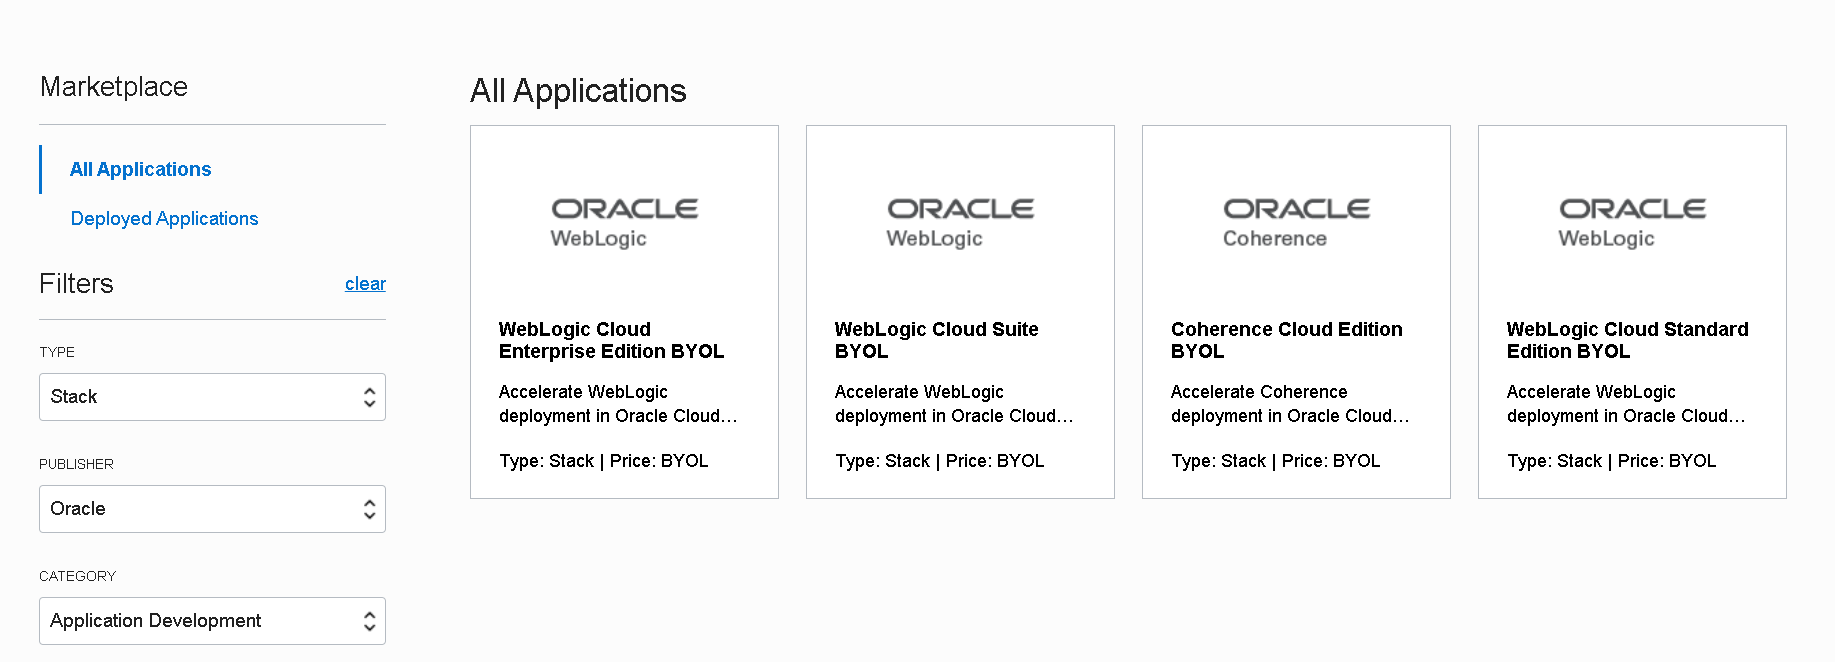
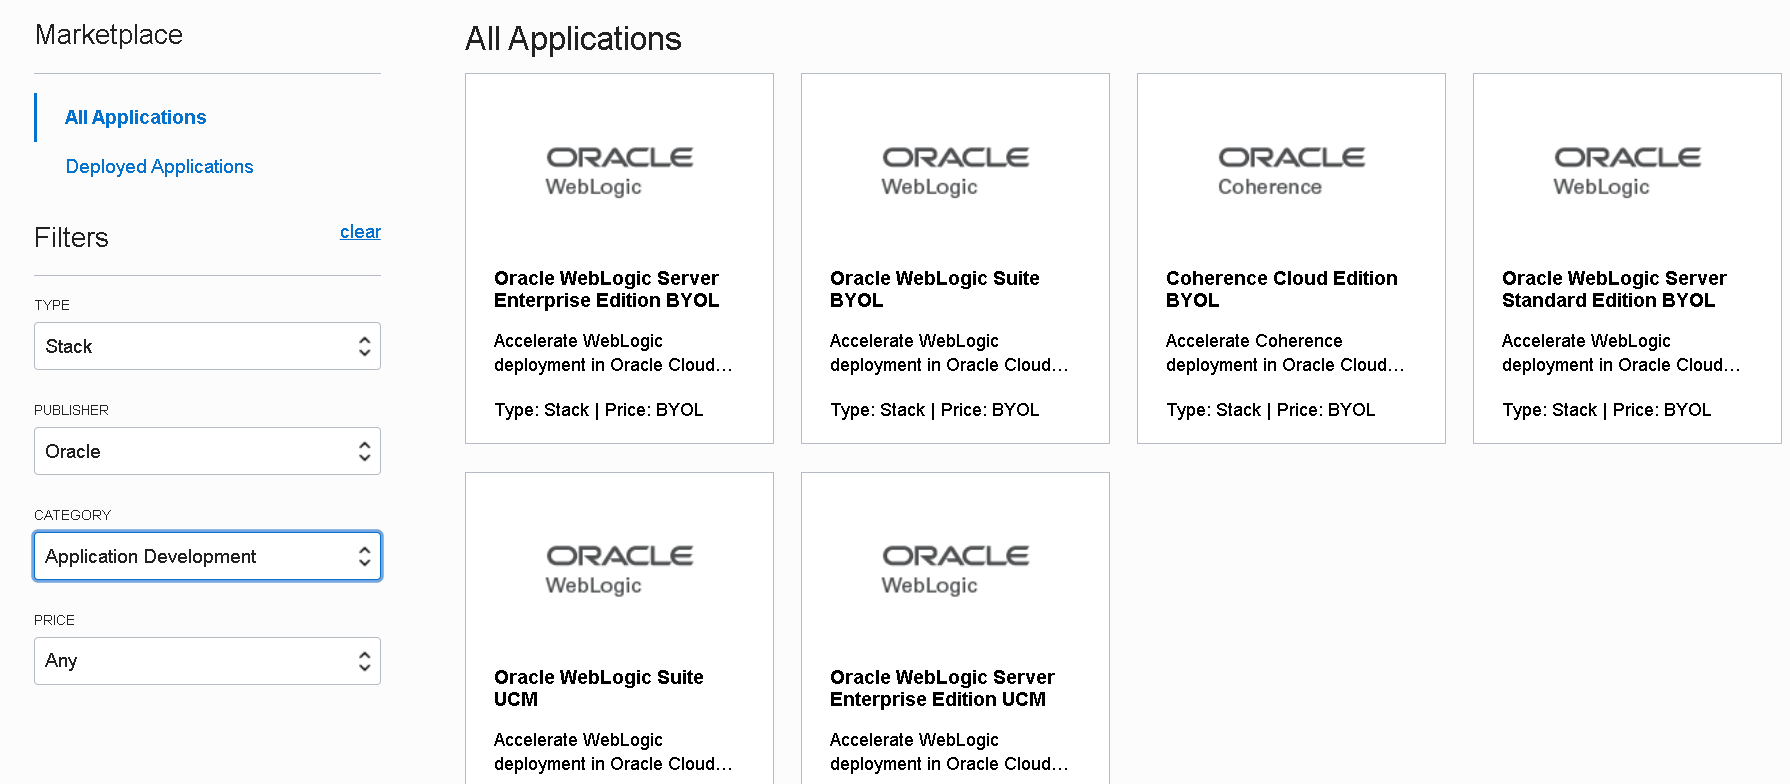
Weblogic Cloud -> Weblogic for OCI

diff --git a/wlscnonjrfprereq.md b/wlscnonjrfprereq.md
@@ -1,0 +1,268 @@
+# WebLogic Cloud - non JRF
+
+## prerequisites
+
+
+If you want go through the Hands on Lab (*non JRF type of WebLogic Cloud Instance - using Oracle Cloud Marketplace*) using your cloud environment, follow this guide to setup some prerequisites. If you will use the provided Cloud Test Drive environment, skip this Lab.
+
+
+### Step 1. Prepare OCI Compartment
+
+When provisioning WebLogic for OCI through Marketplace, you need to specify an OCI Compartment where all resources will be created.
+
+Make sure you have a Compartment that you can use or create a new one.
+
+Take note of the compartment **OCID**:
+
+![](images/wlscnonjrfwithenvprereq/image550.png)
+
+
+
+The Compartment name is referred as **CTDOKE** in the Hands on Lab.
+
+
+
+### Step 2. Encrypt WebLogic Admin password
+
+When you provision WebLogic for you need to pass the WebLogic Admin password encrypted. An OCI Key is required for this.  
+
+
+
+##### Create a Key Vault
+
+Go to *Governance and Administration* > *Security* > *Key Management*:
+
+![](images/wlscnonjrfwithenvprereq/image010.png)
+
+
+
+Create a new Shared Vault:
+
+![](images/wlscnonjrfwithenvprereq/image020.png)
+
+
+
+The new Vault should be listed as Active:
+
+![](images/wlscnonjrfwithenvprereq/image030.png)
+
+
+
+Take a look at the Vault Information and note the  **Cryptographic Endpoint**:
+
+![](images/wlscnonjrfwithenvprereq/image035.png)
+
+
+
+Create an new Key:
+
+![](images/wlscnonjrfwithenvprereq/image040.png)
+
+
+
+Give the key a Name and leave the other settings as default:
+
+![](images/wlscnonjrfwithenvprereq/image050.png)
+
+
+
+The new key should be listed as *Enabled*:
+
+![](images/wlscnonjrfwithenvprereq/image053.png)
+
+
+
+Click on the key and note the key's **OCID**:
+
+![](images/wlscnonjrfwithenvprereq/image056.png)
+
+
+
+##### Encrypt WebLogic Admin password
+
+User OCI Cloud shell:
+
+![](images/wlscnonjrfwithenvprereq/image110.png)
+
+
+
+Shell appears in the bottom of the screen:
+
+![](images/wlscnonjrfwithenvprereq/image120.png)
+
+
+
+First, we need to encode the WebLogic Admin password in base64 format:
+
+![](images/wlscnonjrfwithenvprereq/image022.png)
+
+
+
+Command:
+
+> echo -n 'WebLogic Admin password' | base64
+
+
+
+Then, we'll use the Vault Key to encrypt the base64 encoded password:
+
+![](images/wlscnonjrfwithenvprereq/image124.png)
+
+
+
+Command:
+
+> oci kms crypto encrypt --key-id Key_OCID --endpoint Vault_Cryptographic_Endpoint --plaintext Base64_Encoded_Password
+
+
+
+The *ciphertext* value from the response represents the encrypted password. Use this value instead of the provided sample from the Hand on Lab given in **weblogic_password_encrypted.txt** text file.
+
+
+
+Use your Key OCID and Vault Cryptographic Endpoint values as the **Key Management Service Key Id**
+and **Key Management Service Cryptographic Endpoint** parameters instead of sample values mentioned in the Hands on Lab.
+
+
+
+### Step 3.  Create required policy for accessing the Vault Key
+
+##### Create a Dynamic Group
+
+We need to create a Dynamic Group that will group all instances in the compartment.
+
+Go to *Governance and Administration* -> *Identity* -> *Dynamic Groups*
+
+![](images/wlscnonjrfwithenvprereq/image560.png)
+
+
+
+Create a new Dynamic Group:
+
+![](images/wlscnonjrfwithenvprereq/image570.png)
+
+
+
+Give a meaningful name and description.
+
+For the matching rule use:
+
+> ALL {instance.compartment.id = 'your compartment ocid'}
+
+
+
+##### Create Policy for Dynamic Group
+
+We need to create a policy that will allow stack scripts to access the key vault and decrypt encrypted WebLogic Admin password.
+
+
+
+Go to *Governance and Administration* -> *Identity* -> *Policies*
+
+![](images/wlscnonjrfwithenvprereq/image580.png)
+
+
+
+![](images/wlscnonjrfwithenvprereq/image585.png)
+
+Create a new Policy:
+
+![](images/wlscnonjrfwithenvprereq/image590.png)
+
+Give a name and description.
+
+For the policy statement use:
+
+> Allow dynamic-group <dynamic group name> to use keys in compartment <compartment name>
+
+Specify Dynamic Group's name created earlier and your compartment name.
+
+
+
+### Step 4. Network Configuration
+
+The Hands on Lab guide uses an existing Virtual Cloud Network and pre-configured Subnets for the WebLogic compute nodes and for the Load Balancer.
+
+ If running the lab in a different cloud environment, the easiest way is to choose for creation of required network resources during provisioning.
+
+
+
+When filling in Stack form choose to *Create New VCN* for Virtual Cloud Network Strategy. Setup a VCN name. You can leave default Network CIDR value or change it.
+
+![](images/wlscnonjrfwithenvprereq/image600.png)
+
+
+
+You can leave default options for Subnet configuration:
+
+![](images/wlscnonjrfwithenvprereq/image610.png)
+
+
+
+Also for the Load Balancer:
+
+![](images/wlscnonjrfwithenvprereq/image620.png)
+
+
+
+###  Step 5. Create ssh keys
+
+You need to generate a public and private ssh key pair. During provisioning using Marketplace, you have to specify the ssh public key that will be associated with each of the WebLogic VM nodes.
+
+You can choose one of the options below:
+
+###### Using ssh-keygen
+
+> ssh-keygen -t rsa -b 4096
+
+You'll be asked to specify the filename to save the private key. The public key will be saved at the same location, with the extension .pub added to the private key filename.
+
+
+
+###### Using PuTTYgen
+
+Launch the PuTTYgen tool and use the *Generate* button to generate a new private/public key pair.
+
+![](images/wlscnonjrfwithenvprereq/image500.png)
+
+
+
+After key generation, don't forget to save the public and private key. If not using Putty as ssh client, you'll need to save the key in OpenSSH format (*Conversions* -> *Export OpenSSL key*).
+
+![](images/wlscnonjrfwithenvprereq/image510.png)
+
+
+
+The public key filename is referred as **wls_ssh_public.key** in the Hands on Lab.
+
+
+
+### Step 6. Load balancer SSL configuration
+
+For security reasons it's a good practice - if not mandatory - to allow only secured traffic between clients and WebLogic Server applications. Therefore, after provisioning WebLogic for OCI by choosing to setup a Load Balancer, it's necessary to manually finish SSL configuration by adding a SSL certificate to the load balancer's listener.
+
+
+
+##### Create Self Signed certificate
+
+We can use Openssl tool to generate a Self Signed certificate:
+
+> openssl req -x509 -newkey rsa:4096 -keyout weblogiccloud_key.pem -out weblogiccloud_cert.pem -days 365
+
+The openssl dialog will request setting up a PEM pass phrase and several fields for certificate information.
+
+You can choose any PEM pass phrase, the one used by the Hands on Lab is referred from the **weblogiccloud_key_passphrase.txt** text file.
+
+
+
+Then, we need to decrypt the private key:
+
+> openssl rsa -in weblogiccloud_key.pem -out weblogiccloud_dec_key.pem
+
+
+
+Note that above examples use the same names for the certificate and private key as in the Hands on Lab: **weblogiccloud_cert.pem** and **weblogiccloud_dec_key.pem**.
+
+
+
+You should be able now to run the Hands on Lab on your own cloud environment.

diff --git a/wlscnonjrf.md b/wlscnonjrf.md
@@ -1,14 +1,14 @@
-# WebLogic Cloud - non JRF
+# WebLogic for OCI - non JRF
 
 ## with provided cloud environment
 
 
 
-This Hands on Lab will go through the process of creating a non JRF type of WebLogic Cloud Instance - using Oracle Cloud Marketplace - and through the steps of deploying a simple application. A provided and partially preconfigured (lab) cloud environment will be used.
+This Hands on Lab will go through the process of creating a non JRF type of WebLogic for OCI Instance - using Oracle Cloud Marketplace - and through the steps of deploying a simple application. A provided and partially preconfigured (lab) cloud environment will be used.
 
 
 
-### Step 1. Create WLS Cloud Stack
+### Step 1. Create WebLogic for OCI Stack
 
 - Go to https://console.eu-frankfurt-1.oraclecloud.com/ and login to the lab cloud environment
 - Choose **oractdemeabdmnative** as Cloud Tenant:
@@ -35,7 +35,7 @@ This Hands on Lab will go through the process of creating a non JRF type of WebL
 
 
 
-- You can choose to browser-search for *WebLogic Cloud*, or you can apply the filters:
+- You can choose to browser-search for *WebLogic Server*, or you can apply the filters:
   - **Type**: *Stack*
   - **Publisher**: *Oracle*
   - **Category**: *Application Development*
@@ -44,21 +44,15 @@ This Hands on Lab will go through the process of creating a non JRF type of WebL
 
 
 
-- Choose *WebLogic Cloud Enterprise Edition BYOL*; This brings you to the Stack Overview page:
+- Choose *WebLogic Server Enterprise Edition UCM*; This brings you to the Stack Overview page:
 
 ![](images/wlscnonjrfwithenv/image060.png)
 
 
 
-- Choose *CTDOKE* compartment:
+- Make sure *CTDOKE* compartment is selected and to accept *Oracle Terms of Use*:
 
 ![](images/wlscnonjrfwithenv/image070.png)
-
-
-
-- And accept the terms for Launching the Stack:
-
-![](images/wlscnonjrfwithenv/image080.png)
 
 
 
@@ -87,7 +81,7 @@ This Hands on Lab will go through the process of creating a non JRF type of WebL
   - **WebLogic Server Availability Domain**: choose one of the three ADs
   - **WebLogic Server Node count**: *2* (we will create a WebLogic cluster with two nodes / managed servers)
   - **Admin user name**: *weblogic*
-  - **Admin password**: enter the provided *encrypted* weblogic password;  see provided *weblogic_password_encrypted.txt* file; for getting this, a Virtual Vault key was used for encrypting the plain text password;
+  - **Admin password**: enter the *encrypted* WebLogic Admin password;  see provided *weblogic_password_encrypted.txt* file; for obtaining this, a Virtual Vault Key was used for encrypting the base64 encoded password;
 
 
 ![](images/wlscnonjrfwithenv/image110.png)
@@ -116,7 +110,7 @@ This Hands on Lab will go through the process of creating a non JRF type of WebL
   - **Existing Subnet for WebLogic Server**: *WLSCB2-wls-subnet*
   - Tick to **Provision Load Balancer**
   - **Existing Subnet For Load Balancer**: *WLSCB2-lb-subnet-1*
-  - **Load Balancer Shape**: *400Mbps*
+  - **Load Balancer Shape**: *100Mbps*
   - Tick to **Prepare Load Balancer for Https**
 
 
@@ -151,7 +145,7 @@ This Hands on Lab will go through the process of creating a non JRF type of WebL
 
 
 
-- A Stack Job is being run and our WLS Server is being provisioned:
+- A Stack Job is being run and our WebLogic Server is being provisioned:
 
 ![](images/wlscnonjrfwithenv/image180.png)
 
